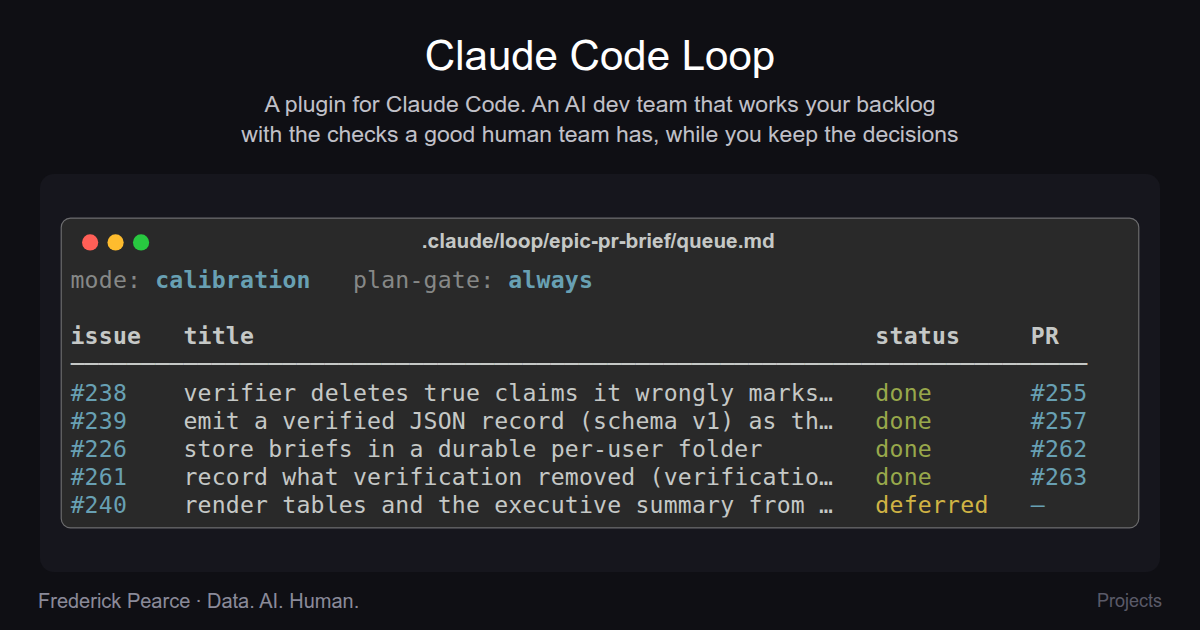
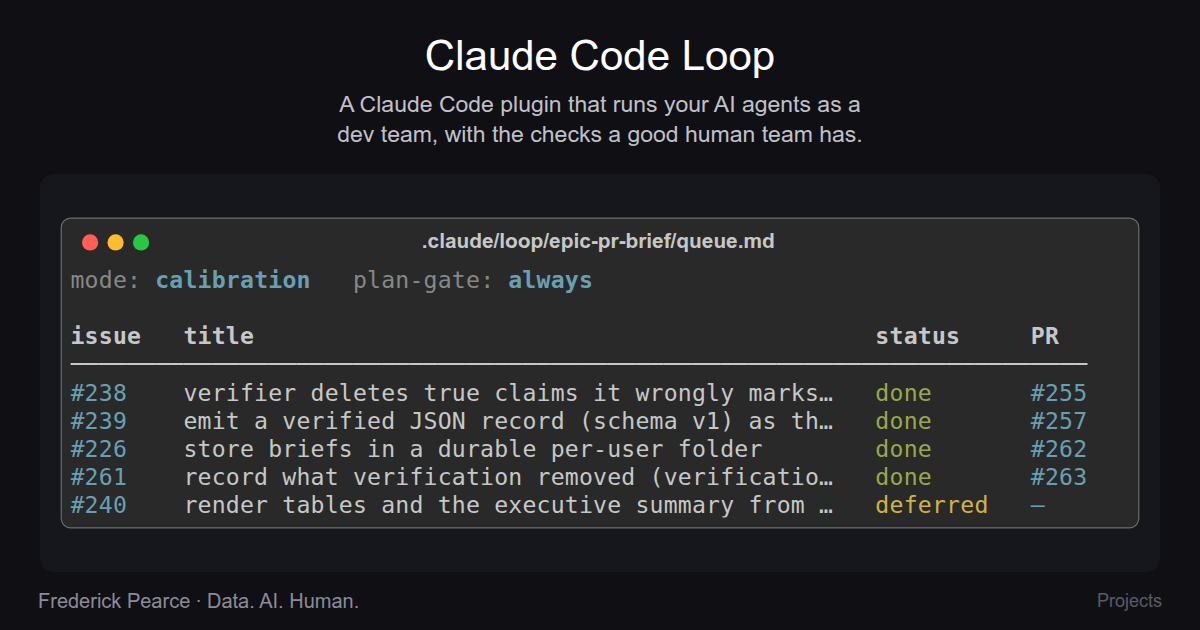
docs: sharpen the Claude Code Loop page's claims and role descriptions (#152)
- Description: one sentence leading with the plugin; share card re-rendered.
- Overview: no longer repeats the description; adds per-project
  customization (own agents, routing by task type, own conventions) and
  rewrites the value, review, security and cost bullets to say what each
  check actually does.
- Gate cards: retitled to match; the value card notes the owner signs off
  on value, the cost card frames cost data as the input to improving the
  loop, and the security card names hooks as the way to enforce a rule
  every time. It also corrects what the append-only guard protects: a
  project's declared append-only files, not the loop's own record.
- Team table: "loop" for "pipeline"; PM direct-use example, architect
  rulings on design findings, developer writes tests (test-first where it
  fits); business analyst moved into the table as an add-on row.
- Under the Hood: adds the offline test check (HERMETIC_TEST_CMD).
- Status: 280 issues done across seven projects as of mid-November,
  replacing the v0.3.0 count of 111.

Claude-Session: https://claude.ai/code/session_01HFowjq2FgHihmDCDL5w1gH

Changed region(s): [[0.185, 0.1508, 0.8017, 0.2413]]

diff --git a/_projects/claude-code-loop.md b/_projects/claude-code-loop.md
@@ -1,7 +1,7 @@
 ---
 layout: page
 title: Claude Code Loop
-description: A plugin for Claude Code. An AI dev team that works your backlog with the checks a good human team has, while you keep the decisions
+description: A Claude Code plugin that runs your AI agents as a dev team, with the checks a good human team has.
 img: assets/img/claude_code_loop_ledger.svg
 og_image: https://frederick-douglas-pearce.github.io/assets/img/claude-code-loop-og.png
 importance: 1
@@ -12,35 +12,35 @@ enable_math: false
 
 ## Overview
 
-Claude Code Loop is an AI dev team that works through your backlog with the checks a good human team has, while you keep the decisions. It runs inside [Claude Code](https://code.claude.com) as a plugin. It takes one issue at a time from your GitHub backlog and carries it from scoping to merge. A product manager agent scopes it, an architect agent reviews the design before any code is written, and the main agent builds it. Other agents review the code, and an agent that didn't write it checks the result. By default it stops for your approval on every plan before any code is written and on every merge.
+Claude Code Loop works through your GitHub backlog one issue at a time, carrying each from scoping to merge while you keep the decisions. It runs inside [Claude Code](https://code.claude.com) as a plugin. A product manager agent scopes the issue, an architect agent reviews the design before any code is written, and the main agent builds it. Other agents review the code, and an agent that didn't write it checks the result. By default it stops for your approval on every plan and on every merge.
 
 What that gets you:
 
-- **The right thing gets built.** A feature has to name who it's for, and what would show it's the wrong thing to build, before any code exists.
-- **Problems surface early.** The design is reviewed before code, and the work is never checked by the agent that did it.
-- **Security gets a look.** Built-in security review where the change calls for it, and a short list of rules on what the loop must never do.
+- **Fitted to each project.** Bring your own agent for each role, route work by task type, and keep your own build, branch, commit and PR conventions in one config file per project. I run it on seven projects, each set up differently.
+- **Every feature gets a value check first.** Before any code exists, the plan names who it's for and what would show it isn't worth building. You sign off on that value, not just on how it will be built.
+- **Plans are reviewed before code.** The architect checks the design against your codebase and roadmap, and the product manager checks the scope and splits an issue too big for one pass. Code is never checked by the agent that wrote it.
+- **Security review on your project's triggers.** Each project sets which kinds of change and which files call for a security review, and a short list of rules says what the loop must never do.
 - **You stay in charge, with a record.** Two human approvals, and every gate decision added to a running record on disk.
-- **Cost is measured, not guessed.** I price every session from Claude Code's own records and use the numbers to decide what to change.
+- **Cost is measured and used to improve the loop.** I price every session from Claude Code's own records and review the numbers to find where the loop can get cheaper without getting weaker.
 
-It runs today on seven projects, including its own: the loop works its own backlog. It was built inside my **[AgentFluent](/projects/agentfluent/)** project and then pulled out so any project can use it.
+One of those seven projects is the loop itself: it works its own backlog. It was built inside my **[AgentFluent](/projects/agentfluent/)** project and then pulled out so any project can use it.
 
 <div class="mt-5"></div>
 
 ## A Dev Team, in a Loop
 
-The pipeline is modeled on the roles of a human team. Each project's settings file says which agent fills each role. The plugin doesn't come with agents of its own: you point the product manager and architect roles at agents you already have.
+The loop is modeled on the roles of a human team. Each project's settings file says which agent fills each role. The plugin doesn't come with agents of its own: you point the product manager and architect roles at agents you already have.
 
-| Team role             | What it does in the loop                                                                                                                                                                        |
-| --------------------- | ----------------------------------------------------------------------------------------------------------------------------------------------------------------------------------------------- |
-| **Product manager**   | answers scope, priority and requirements questions, and splits an issue too large for one pass                                                                                                  |
-| **Architect**         | reviews the design before any code is written: whether it fits the project's conventions and existing code, reuses what's there, and leaves room for the roadmap. It reads but never edits code |
-| **Developer**         | the main agent, which also coordinates the others: plans, writes the code, runs your automated checks, opens the pull request                                                                   |
-| **Code reviewers**    | several reviewer agents read the change side by side, each given the issue's acceptance criteria (its written definition of done)                                                               |
-| **Security reviewer** | runs when the kind of change and the files it touches call for it                                                                                                                               |
-| **QA**                | an agent that didn't do the work checks every acceptance criterion, and whether the tests would catch the code breaking later                                                                   |
-| **Owner**             | you: approve plans, approve merges, and settle anything the agents disagree on                                                                                                                  |
-
-A business analyst agent, which keeps a glossary so the roles stop talking past each other, isn't built into the plugin yet. Two of my projects add one through their own settings files.
+| Team role                       | What it does in the loop                                                                                                                                                                                                                                                              |
+| ------------------------------- | ------------------------------------------------------------------------------------------------------------------------------------------------------------------------------------------------------------------------------------------------------------------------------------- |
+| **Product manager**             | answers scope, priority and requirements questions, and splits an issue too large for one pass. It's your own agent, so you can also ask it directly, for example which open issues to cut so a release ships tomorrow                                                                |
+| **Architect**                   | reviews the design before any code is written: whether it fits the project's conventions and existing code, reuses what's there, and leaves room for the roadmap. It also rules on review findings that raise a design question and recommends the fix. It reads but never edits code |
+| **Developer**                   | the main agent, which also coordinates the others: plans, decides how to build it (writing the tests first where that fits), writes the code and its tests, runs your automated checks, opens the pull request                                                                        |
+| **Code reviewers**              | several reviewer agents read the change side by side, each given the issue's acceptance criteria (its written definition of done)                                                                                                                                                     |
+| **Security reviewer**           | runs when the kind of change and the files it touches match the triggers your project sets                                                                                                                                                                                            |
+| **QA**                          | an agent that didn't do the work checks every acceptance criterion, and whether the tests would catch the code breaking later                                                                                                                                                         |
+| **Owner**                       | you: approve plans, approve merges, and settle anything the agents disagree on                                                                                                                                                                                                        |
+| **Business analyst** _(add-on)_ | keeps a glossary so the roles stop talking past each other. Not built into the plugin yet; two of my projects add one through their own settings files                                                                                                                                |
 
 <div class="mt-5"></div>
 
@@ -52,8 +52,8 @@ Each step the work must pass before it moves on, whether an agent's review or yo
     <div class="col-md-6 mb-3 mb-md-0">
         <div class="card h-100">
             <div class="card-body">
-                <h3 class="card-title">It builds the right thing</h3>
-                <p class="card-text">Agents have made features easier to build, not easier to choose. Before any code exists, a feature plan has to name who it's for and an observation that would show the feature is the wrong thing to build. An issue too big for one pass goes to the product manager agent for a split. If a plan would deliver less than the issue asks, the cut is recorded on the issue and the removed scope is filed as a new one.</p>
+                <h3 class="card-title">Every feature's value is checked first</h3>
+                <p class="card-text">Agents have made features easier to build, not easier to choose. Before any code exists, a feature plan has to name who it's for and an observation that would show the feature isn't worth building. When you approve the plan, you sign off on that value as well as on how it will be built. An issue too big for one pass goes to the product manager agent for a split. If a plan would deliver less than the issue asks, the cut is recorded on the issue and the removed scope is filed as a new one.</p>
                 <p class="card-text mb-0"><strong>Example:</strong> in my election-data project, a proposed cache fix assumed visitors would request the same uncached page at the same moment. The plan checked a month of the dashboard's logs and found no two requests for the same page within 30 seconds. I closed it with no code written.</p>
             </div>
         </div>
@@ -73,8 +73,8 @@ Each step the work must pass before it moves on, whether an agent's review or yo
     <div class="col-md-6 mb-3 mb-md-0">
         <div class="card h-100">
             <div class="card-body">
-                <h3 class="card-title">It takes care with security</h3>
-                <p class="card-text">There's a built-in security review, run when the kind of change and the files it touches call for it. The loop is instructed never to merge while the automated checks are failing, never to overwrite history on GitHub, to work on one pull request at a time, never to sweep unrelated files into a commit, and never to edit its own settings. Those rules are instructions the agent is told to follow, not a sandbox. What is enforced is narrower: the stops for your approval, and a guard against overwriting the loop's record, within limits the README lists. For a hard boundary, use Claude Code's own permission settings.</p>
+                <h3 class="card-title">Security review on your project's triggers</h3>
+                <p class="card-text">There's a built-in security review, run when the kind of change and the files it touches match the triggers your project sets. The loop is instructed never to merge while the automated checks are failing, never to overwrite history on GitHub, to work on one pull request at a time, never to sweep unrelated files into a commit, and never to edit its own settings. Those rules are instructions the agent is told to follow, not a sandbox. What is enforced every time is narrower: the stops for your approval, and a hook that stops an append-only file, such as a project's decision log, from being overwritten, within limits the README lists. Hooks are Claude Code's deterministic checks: they run on each matching action, whatever the agent decides. So a rule that must hold every time belongs in a hook of your own or in Claude Code's permission settings.</p>
                 <p class="card-text mb-0"><strong>Example:</strong> auto-merge is off by default, and even when you turn it on it never applies to a feature, a breaking change, or anything touching security-sensitive code.</p>
             </div>
         </div>
@@ -103,8 +103,8 @@ Each step the work must pass before it moves on, whether an agent's review or yo
     <div class="col-md-6">
         <div class="card h-100">
             <div class="card-body">
-                <h3 class="card-title">Cost is measured, not guessed</h3>
-                <p class="card-text">I measure what each session costs from Claude Code's own records, and I've learned that the bill follows how many back-and-forth steps the main agent takes, not how much text it is holding at each step. So the savings come from fewer review rounds, not shorter text. The next lever is a cheaper model for some roles. Early work on it is merged but not released, and today every role uses the main agent's model, so nothing changes yet.</p>
+                <h3 class="card-title">Cost data drives the loop's improvements</h3>
+                <p class="card-text">I measure what each session costs from Claude Code's own records and review the numbers to decide what to change in the loop next. One finding so far: the bill follows how many back-and-forth steps the main agent takes, not how much text it is holding at each step. So the savings come from fewer review rounds, not shorter text. The next lever is a cheaper model for some roles. Early work on it is merged but not released, and today every role uses the main agent's model, so nothing changes yet.</p>
                 <p class="card-text mb-0"><strong>Example:</strong> in the October review, on v0.3.1, the median session working one issue cost $17.61 in the loop's own project and $35.61 in the election-data project, including the other agents it called on, which made up about a third of the cost.</p>
             </div>
         </div>
@@ -118,9 +118,10 @@ Each step the work must pass before it moves on, whether an agent's review or yo
 For developers, a condensed version. The [README](https://github.com/frederick-douglas-pearce/claude-code-loop#readme) has the depth.
 
 - **One issue per invocation.** A single supervised orchestrator, not a graph of agents. Re-invoke it for the next issue, or let Claude Code's `/loop` drive it.
-- **Routed by risk.** Each issue is routed by its labels and the path rules in your config. A `code` change gets the full pipeline and every gate. `research` gets a lighter plan, `docs` skips the architect and security passes, and `stub-defer` is journaled and left in the backlog.
+- **Routed by risk.** Each issue is routed by its labels and the path rules in your config. A `code` change gets every gate. `research` gets a lighter plan, `docs` skips the architect and security passes, and `stub-defer` is journaled and left in the backlog.
 - **A ledger, not a context window.** Each run keeps a work queue, an append-only journal and a plan per issue under `.claude/loop/`. On resume, the loop checks each unfinished row against live git and PR state before starting anything new.
 - **Mutation testing.** On a `code` change that alters behavior, the acceptance gate mutates the guarded code in a throwaway copy of your tree, runs your suite, and reports any test that stayed green.
+- **Offline test check.** If your project can run its tests with the network cut off, name that command (`HERMETIC_TEST_CMD`) and the loop runs it whenever a `code` change adds or modifies a test. A test that fails only offline was quietly relying on a real service, so it's fixed as a bug, not dismissed as flaky.
 - **A gate that didn't run never counts as passed.** No verdict means not passed, and a pass covers only the commit it ran on.
 - **One engine, one config per project.** Your build commands, branch format, commit convention, merge method and PR template live in one `loop.config.md` that `/init-loop` infers from the repo. The engine is never edited per project.
 - **Per-role model tiers.** A `MODEL_TIERS` table in the config binds each role to a tier and an optional effort, for example `mutation: sonnet@medium`. The engine passes only Claude Code's own model aliases, and your environment decides what they resolve to. An entry it can't read falls back to `inherit`. One limit is built in: the implementer is the orchestrating agent itself, so only the session's own model writes the code.
@@ -138,7 +139,7 @@ For developers, a condensed version. The [README](https://github.com/frederick-d
 
 ## Status
 
-The plugin is at v0.5.0 and in active use on seven projects, and a 1.0 release is coming soon. At the v0.3.0 release in September, the loop had carried 111 issues to done across the five projects using it then, the last time I took the count. That shows one shared plugin, with its own settings file in each project, holds up under real use. Findings from real runs are collected in [issue #1](https://github.com/frederick-douglas-pearce/claude-code-loop/issues/1), and reports from projects unlike the current seven are welcome.
+The plugin is at v0.5.0 and in active use on seven projects, and a 1.0 release is coming soon. As of mid-November, the loop has carried 280 issues to done across those seven projects, counted from each project's running record. That shows one shared plugin, with its own settings file in each project, holds up under real use. Findings from real runs are collected in [issue #1](https://github.com/frederick-douglas-pearce/claude-code-loop/issues/1), and reports from projects unlike the current seven are welcome.
 
 <div class="mt-5"></div>
 
